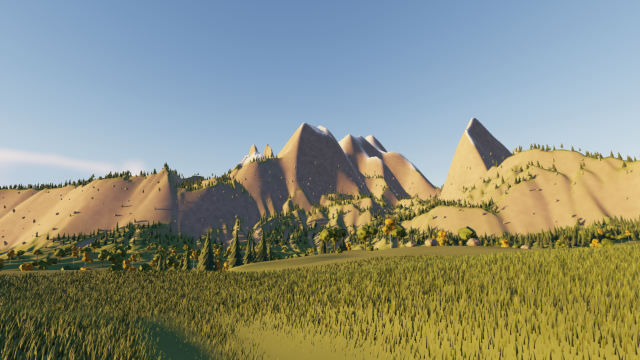
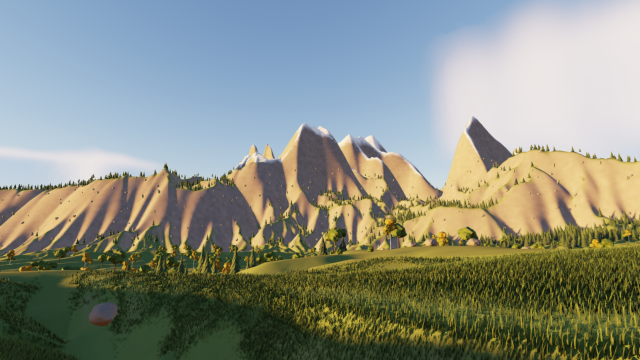
[R14] Snow holds on steep slopes, hydraulic gullies on the peaks (Fixes #59)
- terrain.slang: the snow slope mask followed smoothstep(0.55, 0.75, n.y), so
  anything past ~45 degrees stayed bare rock. Snow now holds on slopes up
  to ~50 degrees at the snowline, rising to ~60 degrees 200 m above it
  (colder, wind-packed snow and rime plaster steeper faces; past ~60
  degrees it sluffs off), with the detail noise breaking up the edge.
- Terrain codec: erosion_rain, erosion_capacity, erosion_rate and
  erosion_thermal expose the grid erosion's hydraulic and thermal rates.
- mountain_forest.json: 400 steps with 50 % more rain, double the sediment
  capacity and a third more dissolution (0.015 / 1.0 / 0.4) and gentler
  thermal relaxation (0.3), so the flanks carve gullies and ridges instead
  of settling into planar faces; the meadow stays walkable (median slope
  12 degrees). Snowline 500 m, treeline 490-495 m, grass on slopes up to 40.

The peaks of this seed are mostly 55-65 degrees (measured on the CPU
heightmap and in a slope-band debug render), so about a third of the
ground above the snowline holds snow: crests, ledges and gentler faces.

Tests: MountainScene counts re-ranged on the new terrain (~10k instances)
and the treeline / snowline check follows; the codec round trip covers the
new fields. Verified locally: game links, 73 selected tests pass on
lavapipe, quat-mcp fmt / clippy / test pass, mountain-forest re-rendered
(docs/screenshots refreshed).

Claude-Session: https://claude.ai/code/session_012i2vySKdwJq6HcKNcQaXMn

diff --git a/src/scene/component_json.cpp b/src/scene/component_json.cpp
@@ -561,6 +561,10 @@ json encode_components(const entt::registry& r, entt::entity e, const EncodeOpti
                           {"droplets", t->params.erosion_droplets},
                           {"erosion_steps", t->params.grid.iterations},
                           {"erosion_talus", t->params.grid.talus},
+                          {"erosion_rain", t->params.grid.rain},
+                          {"erosion_capacity", t->params.grid.capacity},
+                          {"erosion_rate", t->params.grid.erode_rate},
+                          {"erosion_thermal", t->params.grid.thermal_rate},
                           {"snowline", t->snowline_m},
                           {"streaming", t->streaming},
                           {"stream_radius", t->stream_radius},
@@ -851,6 +855,10 @@ std::expected<void, core::Error> apply_component(entt::registry& r, entt::entity
             f.integer("droplets", p.erosion_droplets, 0, 50'000'000);
             f.integer("erosion_steps", p.grid.iterations, 0, terrain::max_grid_erosion_steps);
             f.number("erosion_talus", p.grid.talus, 0.05F, 4.0F);
+            f.number("erosion_rain", p.grid.rain, 0.0F, 1.0F);
+            f.number("erosion_capacity", p.grid.capacity, 0.0F, 20.0F);
+            f.number("erosion_rate", p.grid.erode_rate, 0.0F, 10.0F);
+            f.number("erosion_thermal", p.grid.thermal_rate, 0.0F, 1.0F);
             f.number("snowline", t.snowline_m);
             f.boolean("streaming", t.streaming);
             f.integer("stream_radius", t.stream_radius, 0, 8);

diff --git a/tests/scene/mountain_scene_test.cpp b/tests/scene/mountain_scene_test.cpp
@@ -41,12 +41,12 @@ const std::filesystem::path k_scene_file =
 
 // The tree line the forest layers respect (metres, world Y) and the steepest
 // ground a tree may stand on (degrees; cliffs are steeper).
-constexpr float k_treeline = 530.0F;
+constexpr float k_treeline = 500.0F;
 constexpr float k_tree_max_slope = 40.0F;
 
 // Instance counts each layer is expected to produce on the scene's terrain.
 // Generation is deterministic; the ranges leave room for last-bit terrain
-// differences between compilers and for small art tweaks. Total ~11.3k.
+// differences between compilers and for small art tweaks. Total ~10k.
 struct Expected {
     std::size_t min;
     std::size_t max;
@@ -160,7 +160,7 @@ TEST(MountainScene, FileDecodesStrictly) {
     ASSERT_TRUE(d.has_render_settings);
     EXPECT_GE(d.render_settings.shadows.max_distance, 400.0F);
     ASSERT_TRUE(d.map.valid());
-    EXPECT_GT(d.terrain.snowline_m, k_treeline);
+    EXPECT_GE(d.terrain.snowline_m, k_treeline) << "snow starts above the forest";
     EXPECT_LT(d.terrain.snowline_m, d.map.max_height) << "the peaks should carry snow";
     // The camera stands just above the meadow.
     const float eye = d.camera.y - d.ground_at(d.camera.x, d.camera.z);

diff --git a/tests/scene/component_json_test.cpp b/tests/scene/component_json_test.cpp
@@ -54,8 +54,9 @@ TEST_F(ComponentJson, RoundTripsEveryWritableComponent) {
         {"patrol", {{"points", {{0, 0, 0}, {5, 0, 5}}}, {"loop", false}}},
         {"terrain", {{"seed", 42}, {"resolution", 257}, {"tile_size", 500}, {"height", 60},
                      {"octaves", 5}, {"frequency", 2.5}, {"gain", 0.6}, {"warp", 0.2},
-                     {"droplets", 1000}, {"erosion_talus", 0.8}, {"snowline", 40},
-                     {"streaming", true}, {"stream_radius", 2}}},
+                     {"droplets", 1000}, {"erosion_talus", 0.8}, {"erosion_rain", 0.025},
+                     {"erosion_capacity", 1.5}, {"erosion_rate", 0.5}, {"erosion_thermal", 0.2},
+                     {"snowline", 40}, {"streaming", true}, {"stream_radius", 2}}},
         {"net_replicated", {{"net_id", 1234}}},
         {"grass", {{"density", 30}, {"radius", 25}, {"blade_height", {0.2, 0.9}},
                    {"base_color", "#203010"}, {"wind_direction", {1, 1}}, {"terrain_only", false}}},

diff --git a/tools/quat-mcp/content/components.md b/tools/quat-mcp/content/components.md
@@ -14,7 +14,7 @@ A JSON object keyed by component name. Updates merge: omitted fields keep their 
 - **nav_agent**: `target` [x,y,z]; `speed` (m/s); `ground_offset`; `active`. Needs a baked navmesh (`nav_bake`).
 - **behavior**: `source` (behaviour-tree JSON object or its text); `enabled`.
 - **patrol**: `points` [[x,y,z],...]; `loop`. Walked by the entity's `nav_agent`.
-- **terrain**: `seed`; `resolution` 17..8193; `tile_size` (m); `height` (m); `octaves` 1..16; `frequency` 0.05..64 (noise periods across a tile; lower = broader mountains); `gain` 0.1..0.9 (octave persistence; higher = more rugged); `warp` 0..4; `erosion` droplets|grid (grid: GPU-synthesised); `droplets` (droplet count, 0..50000000); `erosion_steps` (grid steps, 0..100000); `erosion_talus` 0.05..4 (grid: tan of the steepest slope thermal weathering keeps; 1 = 45 degrees, rugged peaks); `gpu` (synthesise on the GPU); `snowline` (m); `streaming`; `stream_radius` 0..8 (tiles).
+- **terrain**: `seed`; `resolution` 17..8193; `tile_size` (m); `height` (m); `octaves` 1..16; `frequency` 0.05..64 (noise periods across a tile; lower = broader mountains); `gain` 0.1..0.9 (octave persistence; higher = more rugged); `warp` 0..4; `erosion` droplets|grid (grid: GPU-synthesised); `droplets` (droplet count, 0..50000000); `erosion_steps` (grid steps, 0..100000); `erosion_talus` 0.05..4 (grid: tan of the steepest slope thermal weathering keeps; 1 = 45 degrees, rugged peaks); `erosion_rain` 0..1 (grid: m/s of rain), `erosion_capacity` 0..20 (sediment capacity), `erosion_rate` 0..10 (dissolution rate, 1/s) — more rain / capacity / rate carve deeper gullies; `erosion_thermal` 0..1 (share of the excess over the talus slope moved per step; lower keeps faces from flattening into planes); `gpu` (synthesise on the GPU); `snowline` (m); `streaming`; `stream_radius` 0..8 (tiles).
 - **`instanced_mesh`**: many copies of one model on ONE entity (forests, rocks) — prefer it over many entities. `gltf` (path relative to the project root; `node` = only that node's subtree) or, with gltf empty, the primitive fields `shape`/`color`/`metallic`/`roughness`/`emissive`; `cast_shadows`; `instances` [{position, rotation, scale} or [x,y,z], ...] relative to the entity (omitted while a scatter generates them); `instance_count` is read-only.
 - **`scatter`**: procedural placement of the entity's instanced_mesh on the terrain around the entity: `seed`; `area` rect|circle; `size` [x,z] (m); `radius` (m); `density` (per m²); `min_spacing` (m); `pattern` poisson|jittered_grid; `scale` [min,max]; `random_yaw`; `align_to_normal` 0..1; `base_offset` (× scale; 0.5 seats a unit primitive on the ground); `slope` [min,max] degrees; `height` [min,max] m; `max_instances`. Same seed = same placements.
 - **grass**: dense wind-animated grass the GPU grows around the camera each frame (one field per scene: the first grass entity; its transform is unused). `seed`; `density` blades per m² 0..1000 (40 = lawn; cost grows with density × radius²); `radius` m 0..500; `blade_height` [min,max] m; `blade_width` [min,max] m; `base_color` / `tip_color` `"#rrggbb"` sRGB or linear [r,g,b]; `wind_strength` 0..4 (1 bends tips ~45°); `wind_direction` [x,z]; `wind_frequency` Hz; `slope` [min,max] degrees and `height` [min,max] m of the ground it grows on; `terrain_only` (false = also flat ground at `ground_y` where no terrain is loaded); `lod_start` 0..1 (fraction of radius where blades thin out); `far_density` 0..1 (fraction kept at the radius).

diff --git a/README.md b/README.md
@@ -22,7 +22,7 @@ the CI screenshot pipeline.
 ![mountain forest](docs/screenshots/mountain-forest.png)
 
 *Mountain forest (`QUAT_DEMO=mountain`): GPU-synthesised, eroded terrain,
-~11k GPU-instanced trees, rocks and bushes scattered by slope and height
+~10k GPU-instanced trees, rocks and bushes scattered by slope and height
 (procedurally generated models), GPU grass, golden-hour sun.*
 
 | Showcase (PBR materials, glass) | Terrain (GPU synthesis + GPU grass) | Physics |
